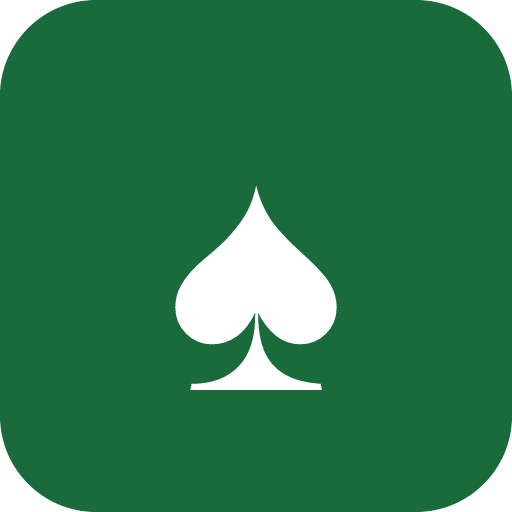
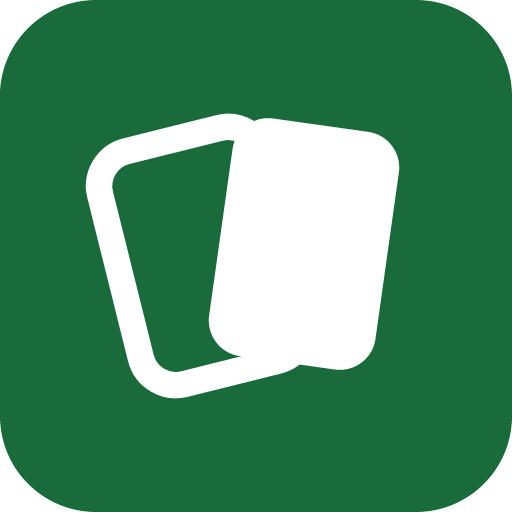
feat(brand): a drawn two-card mark replaces the spade glyph
The spade was a font glyph, drawn differently on every device, and it read
as a gambling sign to teams that estimate work. The mark is two cards, one
face down, as SVG in the headers, the favicon, the app icons and the share
image; the share image also drops its three-word slogan.

Changed region(s): [[0.1562, 0.2188, 0.7812, 0.7812]]

diff --git a/frontend/src/routes/[id]/+page.svelte b/frontend/src/routes/[id]/+page.svelte
@@ -3,6 +3,7 @@
   import { onMount } from 'svelte';
   import { lang } from '#lib/lang.svelte.ts';
   import Footer from '#lib/Footer.svelte';
+  import Logo from '#lib/Logo.svelte';
   import { FR, EN, ES, DE, PT, translateActivity } from '#lib/i18n.ts';
   import { useRoom } from '#lib/useRoom.svelte.ts';
   import { copierTexte } from '#lib/presse-papiers.ts';
@@ -144,7 +145,7 @@
 <div class="page">
   <header class="header">
     <div class="container header-inner">
-      <a href={homeHref} class="logo" aria-label="CleanPoker, accueil">♠ CleanPoker</a>
+      <a href={homeHref} class="logo" aria-label="CleanPoker, accueil"><Logo /><span>CleanPoker</span></a>
       <div class="room-meta">
         <span class="badge-pill">{T.salleLabel} <code>{roomId}</code></span>
         {#if room.roomState}
@@ -490,7 +491,7 @@
 
   .header { padding: 0.75rem 0; border-bottom: 1px solid var(--color-border); }
   .header-inner { display: flex; align-items: center; justify-content: space-between; flex-wrap: wrap; gap: 0.75rem; }
-  .logo { font-size: 1.125rem; font-weight: 700; text-decoration: none; color: var(--color-text); }
+  .logo { display: flex; align-items: center; gap: 0.5rem; font-size: 1.125rem; font-weight: 700; text-decoration: none; color: var(--color-text); }
   .room-meta { display: flex; align-items: center; gap: 0.5rem; flex-wrap: wrap; }
 
   /* Sits next to the button that failed, because that is where the eye already

diff --git a/frontend/src/lib/HomepageTemplate.svelte b/frontend/src/lib/HomepageTemplate.svelte
@@ -1,4 +1,5 @@
 <script lang="ts">
+  import Logo from '#lib/Logo.svelte';
   import { PUBLIC_API_URL } from '$app/env/public';
   import { onMount } from 'svelte';
   import { goto, replaceState } from '$app/navigation';
@@ -186,7 +187,7 @@
   <header class="header">
     <div class="container header-inner">
       <a href={locale === 'en' ? '/' : `/${locale}`} class="logo-group" aria-label="CleanPoker, accueil">
-        <span class="logo" aria-hidden="true">♠</span>
+        <Logo />
         <span class="logo-text">CleanPoker</span>
       </a>
     </div>
@@ -260,7 +261,6 @@
   .header { padding: 1rem 0; border-bottom: 1px solid var(--color-border); }
   .header-inner { display: flex; flex-wrap: wrap; align-items: center; justify-content: space-between; gap: 0.5rem; }
   .logo-group { display: flex; align-items: center; gap: 0.5rem; text-decoration: none; }
-  .logo { font-size: 1.5rem; color: var(--color-primary); }
   .logo-text { font-size: 1.25rem; font-weight: 700; }
 
   .hero {

diff --git a/frontend/src/lib/Logo.svelte b/frontend/src/lib/Logo.svelte
@@ -1,0 +1,10 @@
+<!-- Two cards, one face down: the mark of CleanPoker. Drawn, not a font
+     glyph, so it looks the same on every device. -->
+<svg class="logo-mark" viewBox="0 0 32 32" width="28" height="28" aria-hidden="true" focusable="false">
+  <rect x="4.5" y="6" width="14" height="20" rx="3" transform="rotate(-14 11.5 16)" fill="none" stroke="currentColor" stroke-width="2.2" />
+  <rect x="13" y="5" width="14" height="20" rx="3" transform="rotate(8 20 15)" fill="currentColor" />
+</svg>
+
+<style>
+  .logo-mark { display: block; flex-shrink: 0; color: var(--color-primary); }
+</style>
